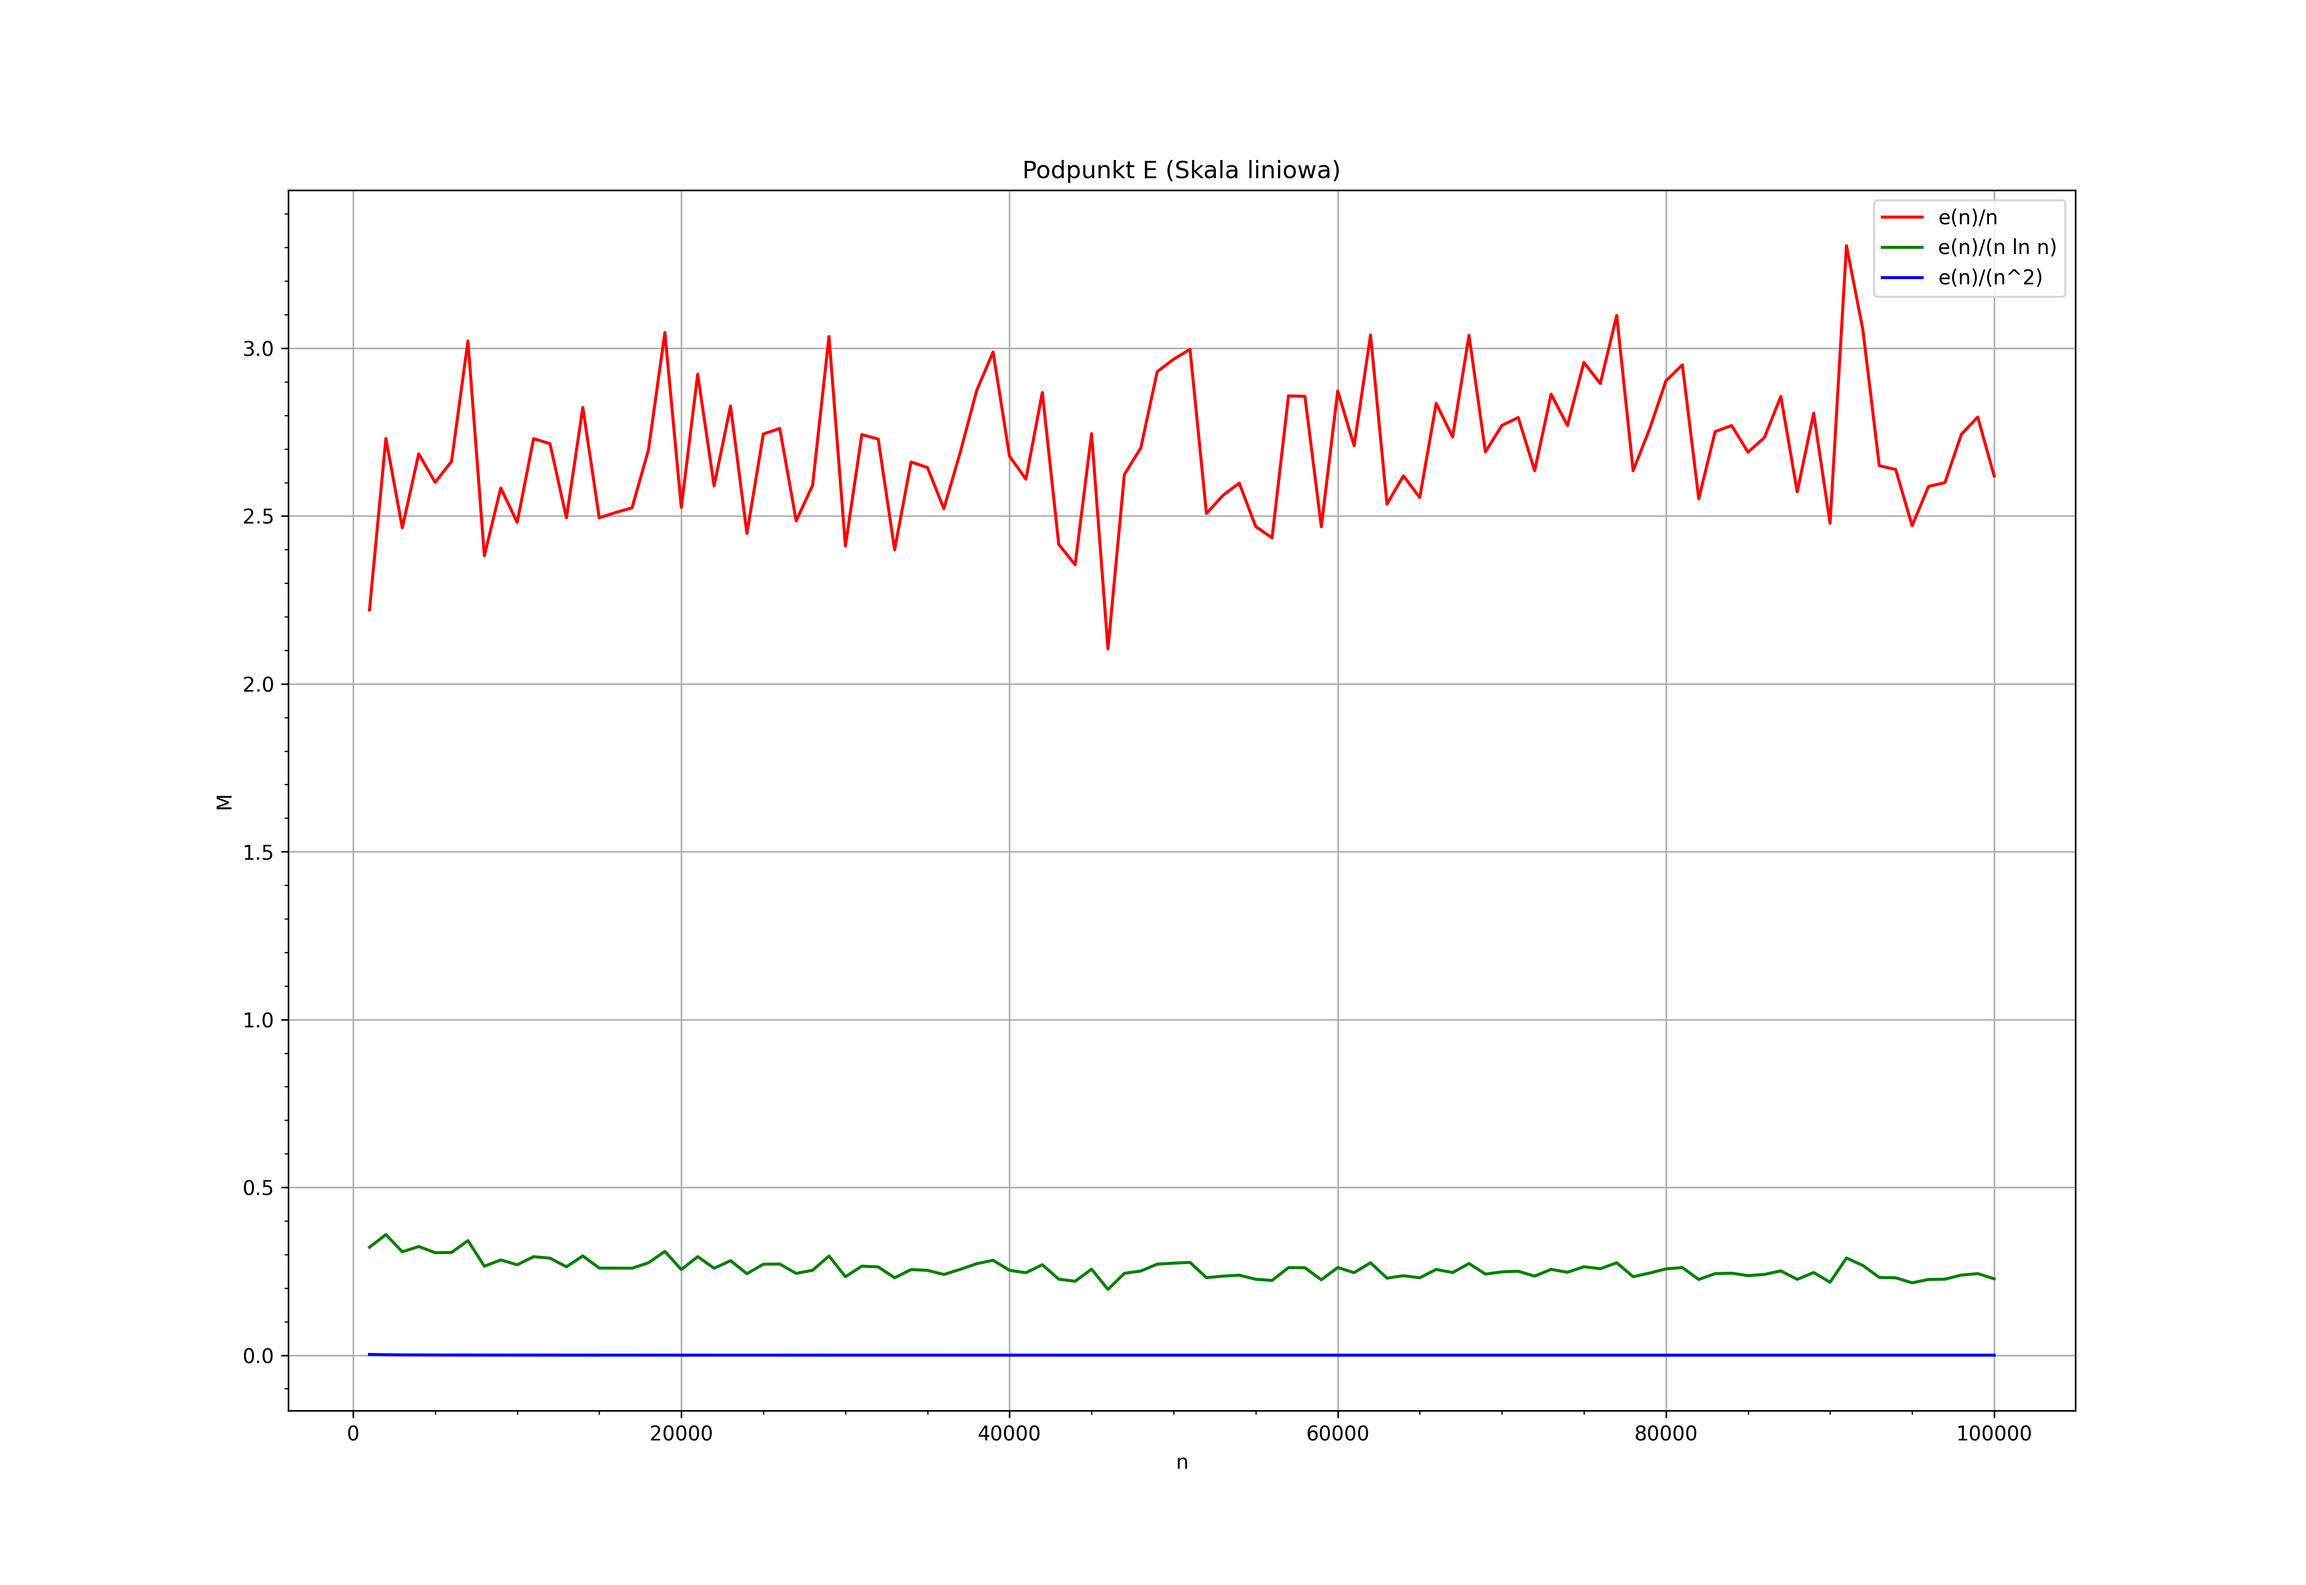
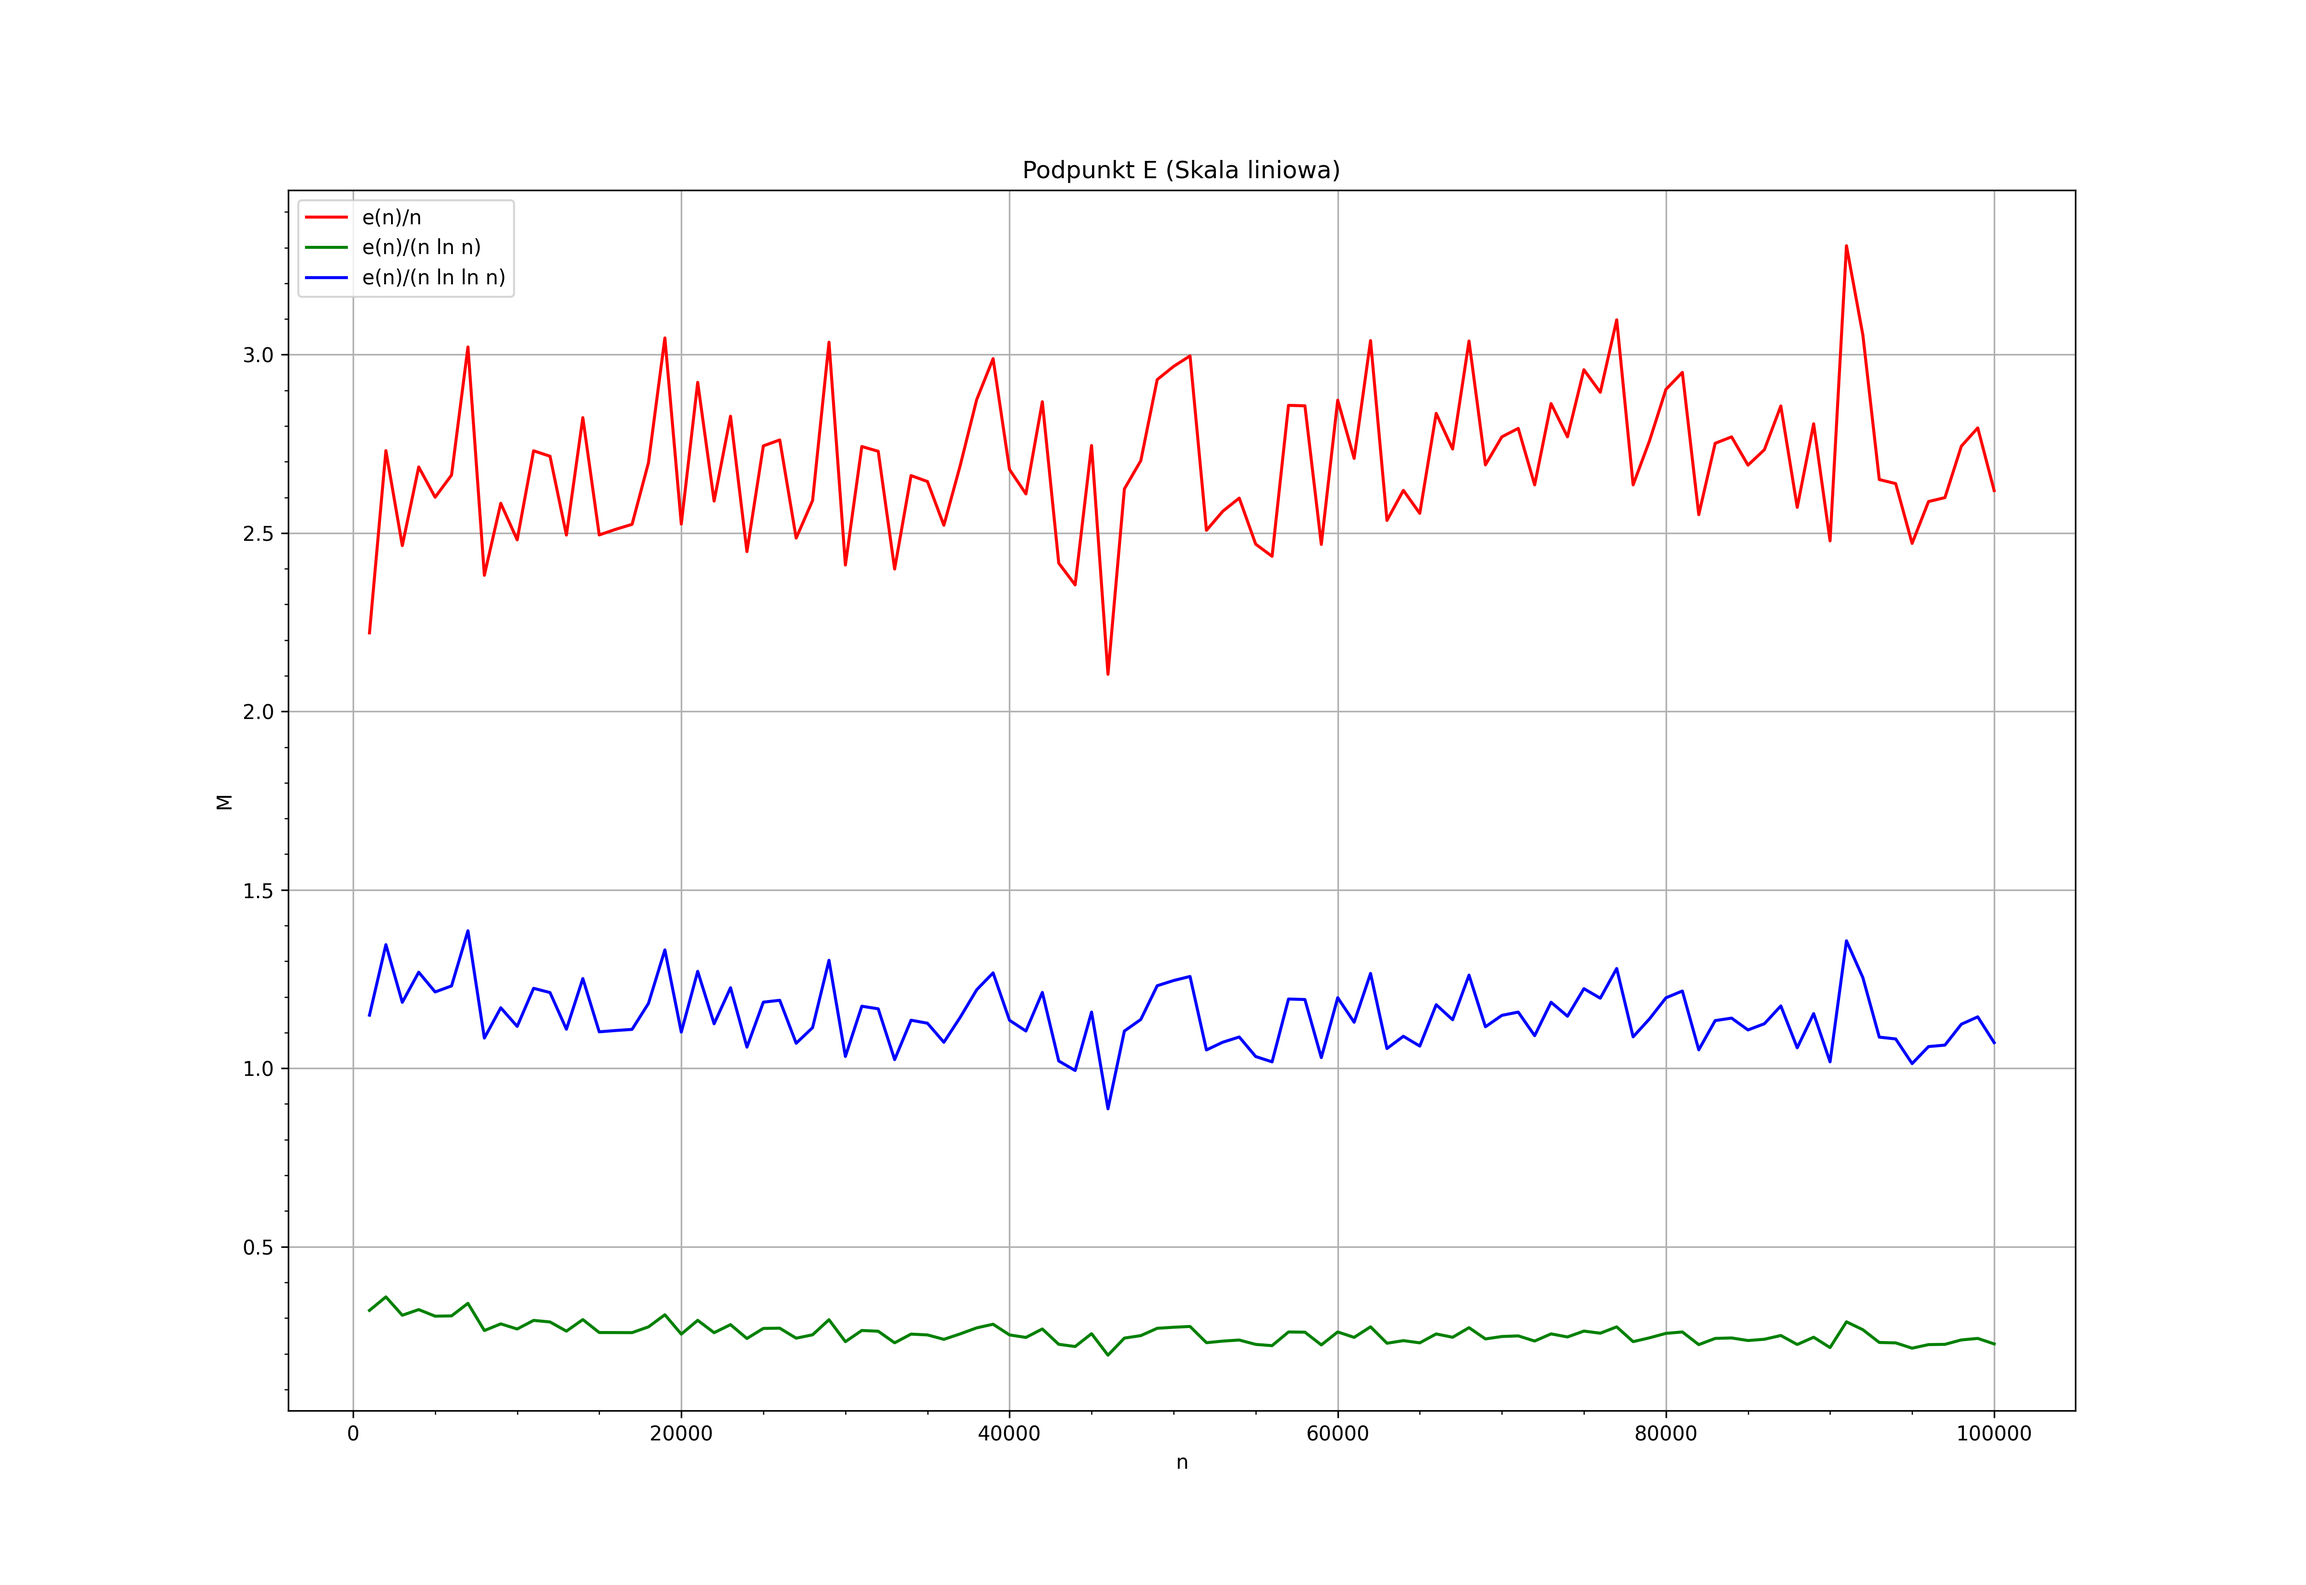
podpunkt E poprawiony

diff --git a/zad2/ball_graph/ball_graph.py b/zad2/ball_graph/ball_graph.py
@@ -57,29 +57,29 @@ c3_graph = np.divide(yc_mean, np.power(unique_x, 2))
 d1_graph = np.divide(yd_mean, unique_x)
 d2_graph = np.divide(yd_mean, np.multiply(unique_x, np.log(unique_x)))
 d3_graph = np.divide(yd_mean, np.power(unique_x, 2))
-
+'''
 #podpunkt e
 e1_graph = np.divide(yd_c_mean, unique_x)
 e2_graph = np.divide(yd_c_mean, np.multiply(unique_x, np.log(unique_x)))
-e3_graph = np.divide(yd_c_mean, np.power(unique_x, 2))
-'''
+e3_graph = np.divide(yd_c_mean, np.multiply(unique_x, np.log(np.log(unique_x))))
+
 ################################
 
 plt.figure(figsize=(16,11),dpi=300)
 plt.xlabel('n')
 plt.ylabel('M')
-plt.yscale('log') #dobór skali
-plt.title('Podpunkt A (Skala logarytmiczna)') #dobór tytułu
+plt.yscale('linear') #dobór skali
+plt.title('Podpunkt E (Skala liniowa)') #dobór tytułu
 
 #plt.scatter(x, yd_c, label='Dn - Cn', s = 5,  zorder = 1) #naniesienie punktów na wykres
 
-#plt.plot(unique_x, a1_graph, color='red', label='b(n)/n' , zorder = 2) #naniesienie funkcji na wykres
-#plt.plot(unique_x, a2_graph, color='green', label='b(n)/sqrt(n)' , zorder = 3)
-#plt.plot(unique_x, e3_graph, color='blue', label='e(n)/(n^2)' , zorder = 4)
+plt.plot(unique_x, e1_graph, color='red', label='e(n)/n' , zorder = 2) #naniesienie funkcji na wykres
+plt.plot(unique_x, e2_graph, color='green', label='e(n)/(n ln n)' , zorder = 3)
+plt.plot(unique_x, e3_graph, color='blue', label='e(n)/(n ln ln n)' , zorder = 4)
 
 plt.minorticks_on() #włączenie podziałki pomocniczej
 plt.legend() #włączenie legendy
 plt.grid(True) #włączenie siatki
 
-plt.savefig('PdpAlog.png', format='png', dpi=300) #zapis wykresu do pliku
+plt.savefig('PdpE.png', format='png', dpi=300) #zapis wykresu do pliku
 plt.show()
